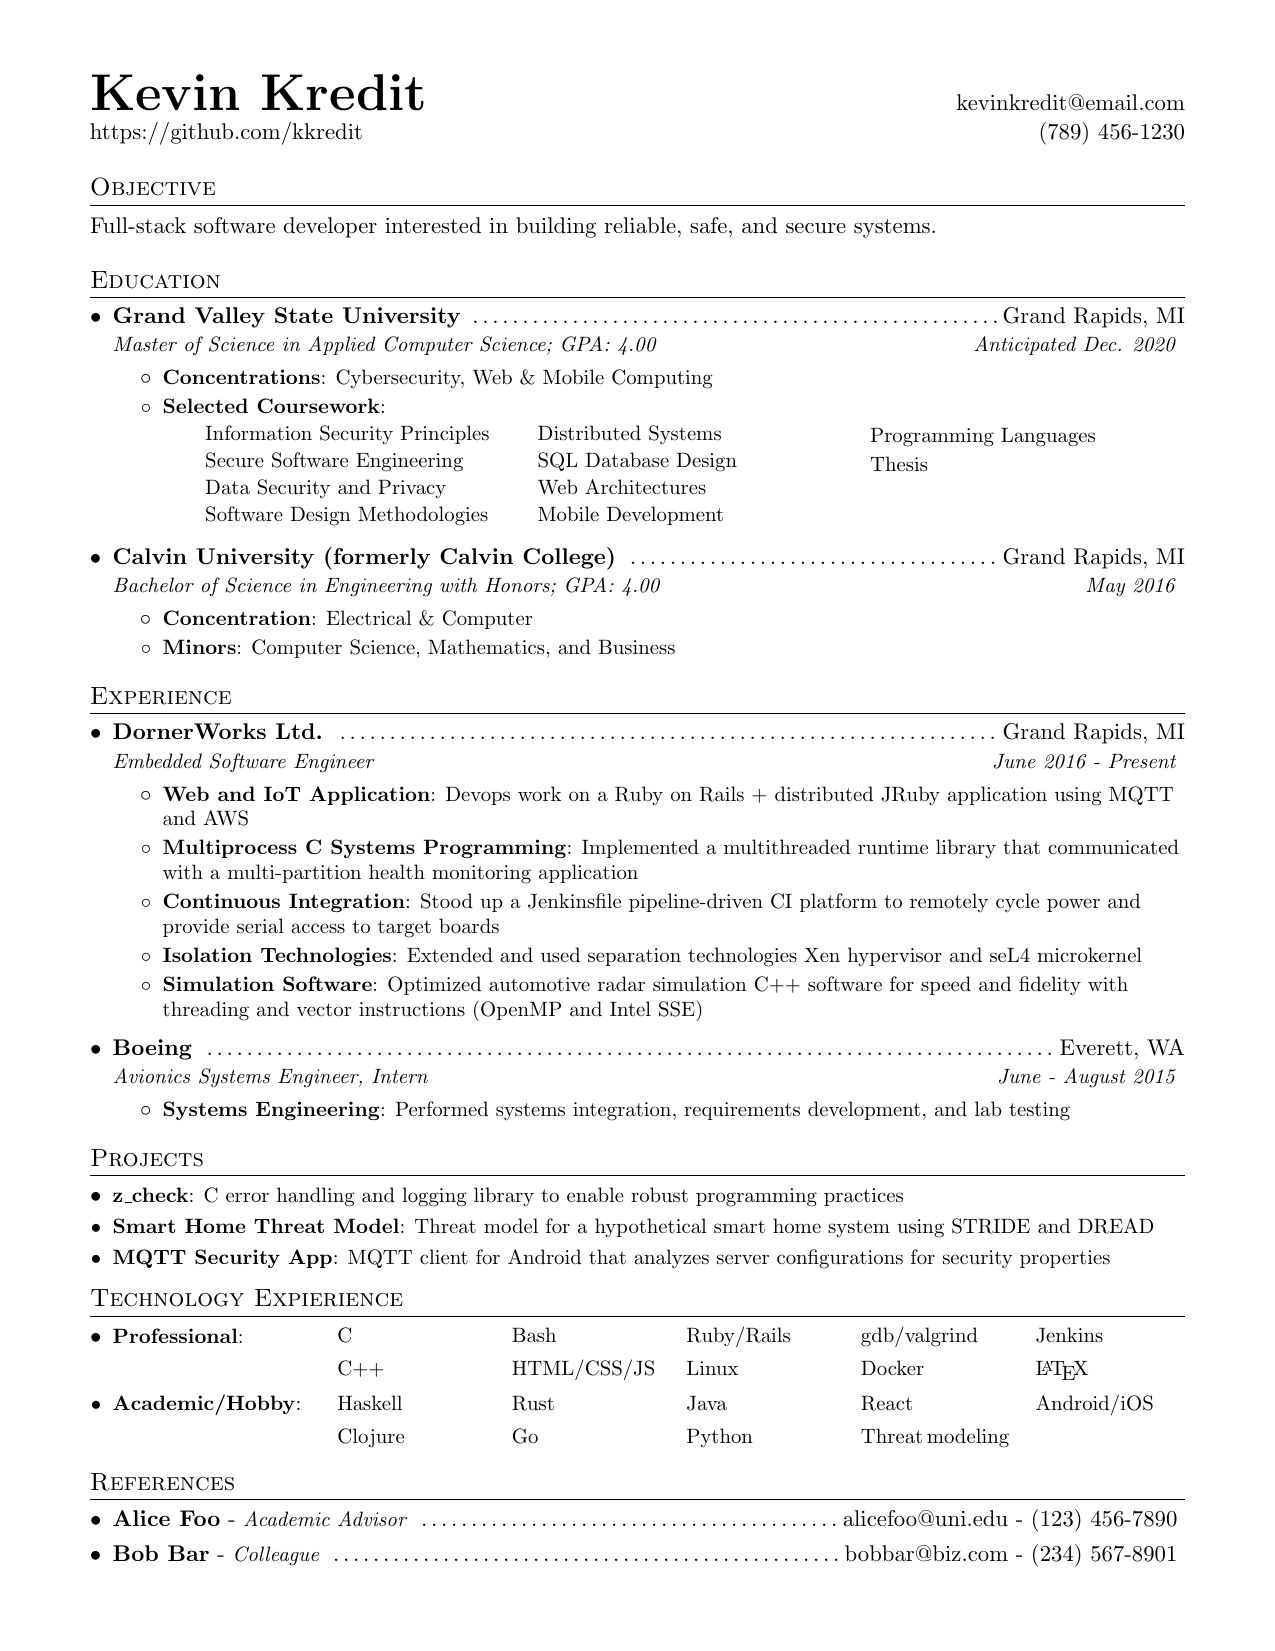
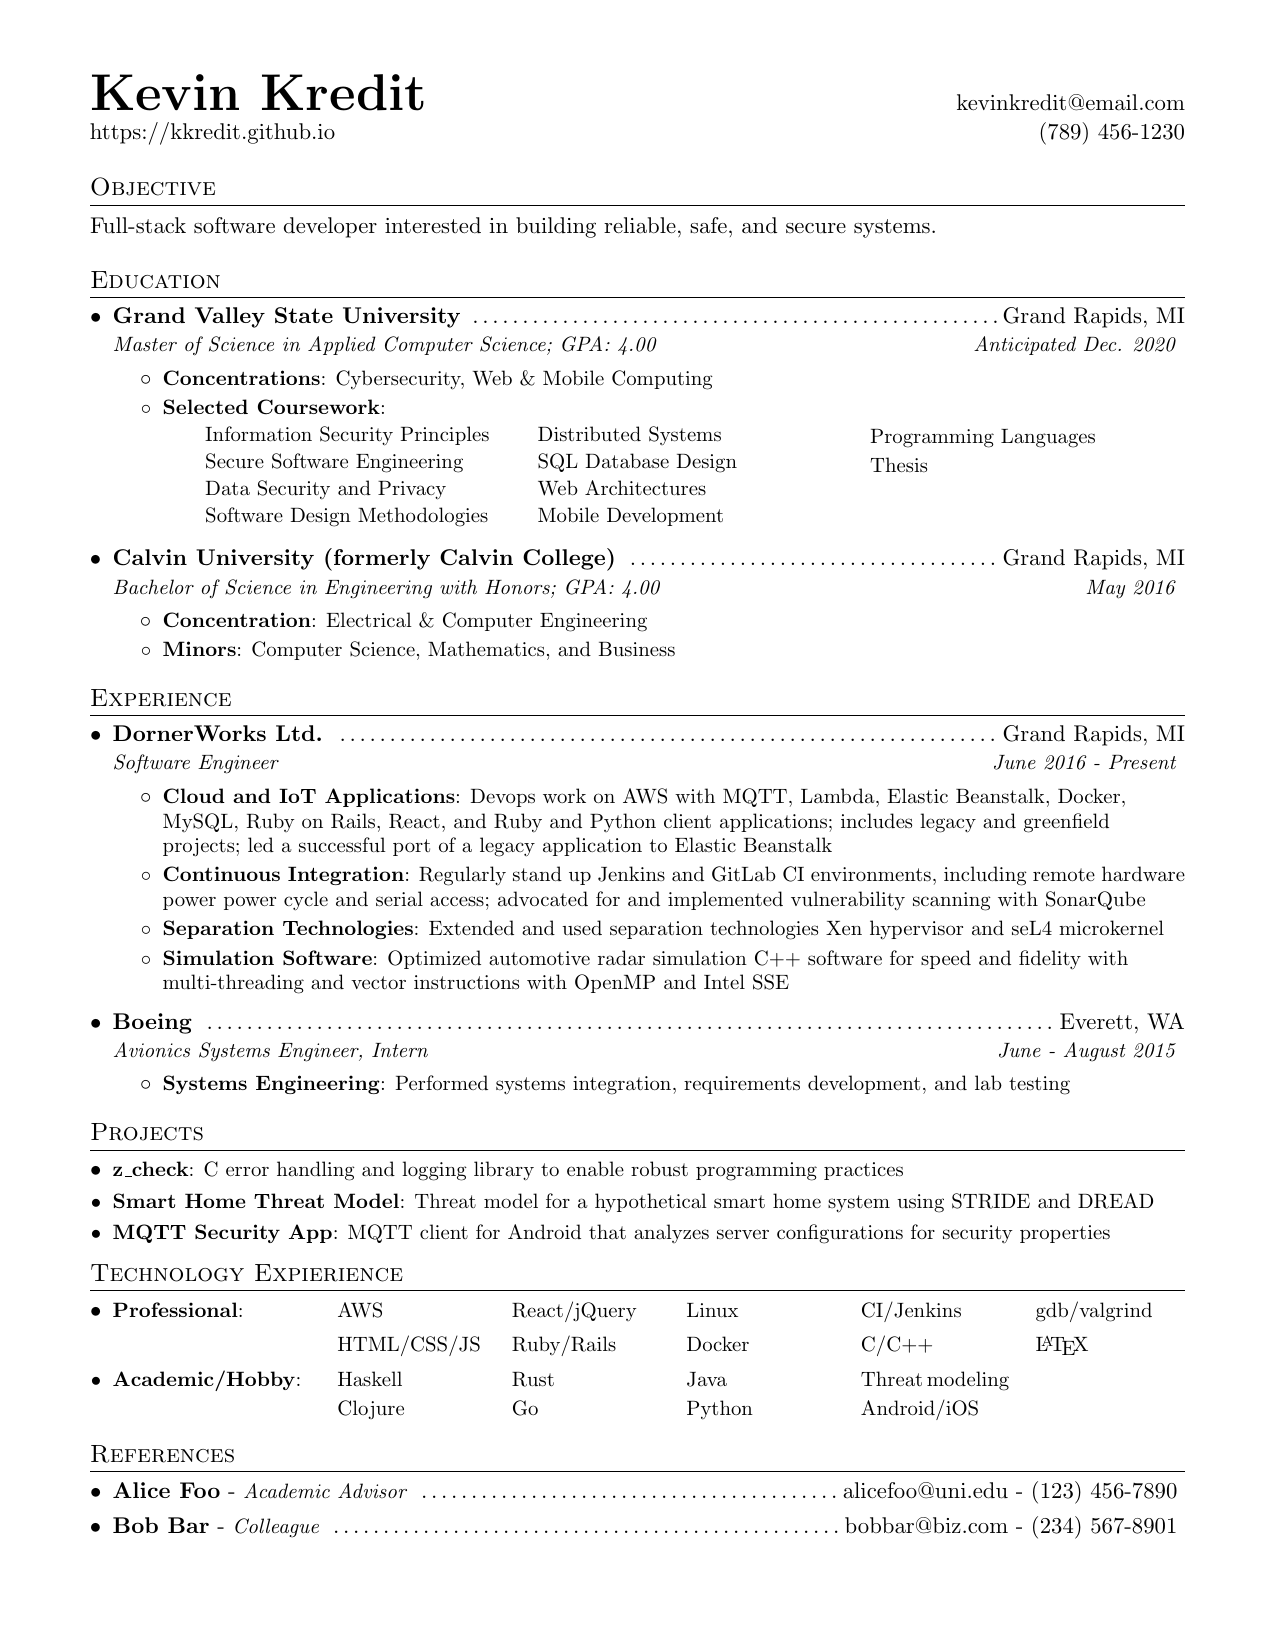
Update example

diff --git a/example/example-contact-info.tex b/example/example-contact-info.tex
@@ -1,4 +1,4 @@
 \newcommand{\myemail}{kevinkredit@email.com}
 \newcommand{\myphone}{(789) 456-1230}
-\newcommand{\mygithub}{https://github.com/kkredit}
+\newcommand{\mygithub}{https://kkredit.github.io}
 \newcommand{\mylinkedin}{https://www.linkedin.com/in/kevinkredit/}
